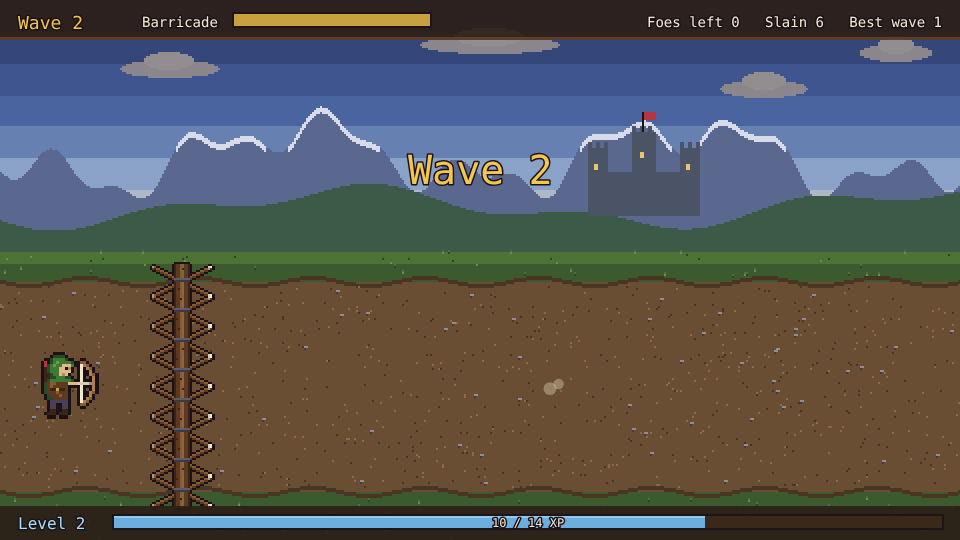
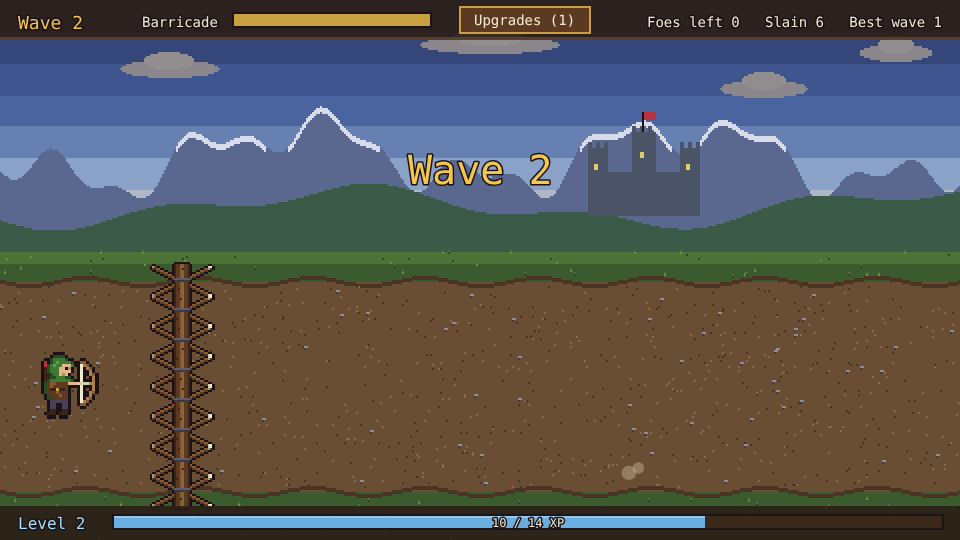
Palisade: an "Upgrades" button lists the upgrades taken so far (#76)
A button in the top bar shows how many upgrades the hero has and opens a panel listing each one with its icon, rank and what a rank does. The battle, and any level-up countdown, waits while the panel is open. The button also works during a level-up, so the hero's upgrades can be checked before choosing.

Requested by Chriszly

Created with Claude Opus 5.5 (low)

Changed region(s): [[0.4688, 0.0, 0.625, 0.0889], [0.625, 0.8593, 0.6875, 0.8889], [0.5625, 0.6815, 0.5938, 0.7407]]

diff --git a/games/palisade/src/ui/UpgradeList.ts b/games/palisade/src/ui/UpgradeList.ts
@@ -1,0 +1,100 @@
+import Phaser from 'phaser';
+import { iconTexture } from '../art/icons';
+import { FONT, UI_DEPTH, UPGRADE_LIST, VIEW } from '../scenes/layout';
+import { UPGRADE_IDS, UPGRADES, type UpgradeId } from '../game/upgrades';
+import { makeButton } from './Button';
+
+/**
+ * The upgrades the hero has taken: a small "Upgrades" button in the top bar opens a panel with each
+ * one's icon, name, rank and what a rank does. The battle (and any auto-pick countdown) waits while
+ * it is open.
+ */
+export class UpgradeList {
+  /** Whether the panel is up; the scene holds the battle still while it is. */
+  open = false;
+  private button: Phaser.GameObjects.Container;
+  private buttonText: Phaser.GameObjects.Text;
+  private buttonBg: Phaser.GameObjects.Rectangle;
+  private root: Phaser.GameObjects.Container;
+  private rows: Phaser.GameObjects.Container;
+  private shown = '';
+
+  constructor(private scene: Phaser.Scene) {
+    const { x, y, w, h } = UPGRADE_LIST.button;
+    this.buttonBg = scene.add.rectangle(0, 0, w, h, 0x5c3a21).setStrokeStyle(2, 0xc9a040);
+    this.buttonText = scene.add.text(0, 0, '', { fontFamily: FONT, fontSize: '14px', color: '#f3e9d2' }).setOrigin(0.5);
+    this.buttonBg
+      .setInteractive({ useHandCursor: true })
+      .on('pointerover', () => this.buttonBg.setFillStyle(0x8a5a32))
+      .on('pointerout', () => this.buttonBg.setFillStyle(0x5c3a21))
+      .on('pointerdown', () => this.setOpen(true));
+    // Above the level-up overlay, so the hero's upgrades can be checked while choosing the next one.
+    this.button = scene.add.container(x, y, [this.buttonBg, this.buttonText]).setDepth(UI_DEPTH + 15);
+
+    const p = UPGRADE_LIST.panel;
+    const dim = scene.add
+      .rectangle(VIEW.w / 2, VIEW.h / 2, VIEW.w, VIEW.h, 0x0e0a08, 0.7)
+      .setInteractive()
+      .on('pointerdown', () => this.setOpen(false));
+    // The panel swallows taps so only taps beside it close it.
+    const panel = scene.add.rectangle(VIEW.w / 2, VIEW.h / 2, p.w, p.h, 0x2c2018).setStrokeStyle(4, 0x8a5a32).setInteractive();
+    const top = VIEW.h / 2 - p.h / 2;
+    const title = scene.add
+      .text(VIEW.w / 2, top + 30, 'Upgrades taken', { fontFamily: FONT, fontSize: '24px', color: '#f3c64e', stroke: '#1a1216', strokeThickness: 4 })
+      .setOrigin(0.5);
+    const note = scene.add
+      .text(VIEW.w / 2, top + 56, 'The battle waits while this is open', { fontFamily: FONT, fontSize: '12px', color: '#c9b48f' })
+      .setOrigin(0.5);
+    this.rows = scene.add.container(0, 0);
+    const close = makeButton(scene, VIEW.w / 2, VIEW.h / 2 + p.h / 2 - 32, 'Back', () => this.setOpen(false));
+    this.root = scene.add.container(0, 0, [dim, panel, title, note, this.rows, close]).setDepth(UI_DEPTH + 30).setVisible(false);
+  }
+
+  /** Updates the button's count, hides it for `hidden`, and rebuilds the panel when the ranks change. */
+  show(ranks: Partial<Record<UpgradeId, number>>, hidden: boolean) {
+    const taken = UPGRADE_IDS.filter((id) => (ranks[id] ?? 0) > 0);
+    this.buttonText.setText(`Upgrades (${taken.length})`);
+    this.button.setVisible(!hidden);
+    if (hidden) this.setOpen(false);
+    const key = taken.map((id) => `${id}:${ranks[id]}`).join();
+    if (key === this.shown) return;
+    this.shown = key;
+    this.rows.removeAll(true);
+    if (taken.length === 0) {
+      this.rows.add(
+        this.scene.add
+          .text(VIEW.w / 2, VIEW.h / 2, 'No upgrades yet.\nEach level-up offers three to choose from.', {
+            fontFamily: FONT,
+            fontSize: '16px',
+            color: '#f1e3c6',
+            align: 'center',
+          })
+          .setOrigin(0.5),
+      );
+      return;
+    }
+    const { cols, colW, rowH, top } = UPGRADE_LIST;
+    const left = VIEW.w / 2 - (cols * colW) / 2;
+    taken.forEach((id, i) => {
+      const u = UPGRADES[id];
+      const x = left + (i % cols) * colW;
+      const y = top + Math.floor(i / cols) * rowH;
+      const rank = ranks[id] ?? 0;
+      this.rows.add([
+        this.scene.add.image(x + 16, y + 18, iconTexture(u.icon)).setScale(0.6),
+        this.scene.add.text(x + 40, y, u.name, { fontFamily: FONT, fontSize: '15px', color: '#f3c64e' }),
+        this.scene.add.text(x + colW - 14, y + 1, `${rank}/${u.maxRank}`, {
+          fontFamily: FONT,
+          fontSize: '13px',
+          color: rank === u.maxRank ? '#8cc35a' : '#c9b48f',
+        }).setOrigin(1, 0),
+        this.scene.add.text(x + 40, y + 19, u.text, { fontFamily: FONT, fontSize: '11px', color: '#f1e3c6', wordWrap: { width: colW - 54 } }),
+      ]);
+    });
+  }
+
+  private setOpen(open: boolean) {
+    this.open = open;
+    this.root.setVisible(open);
+  }
+}

diff --git a/games/palisade/src/scenes/GameScene.ts b/games/palisade/src/scenes/GameScene.ts
@@ -10,6 +10,7 @@ import type { UpgradeId } from '../game/upgrades';
 import { isBossWave } from '../game/waves';
 import { makeButton } from '../ui/Button';
 import { LevelUp } from '../ui/LevelUp';
+import { UpgradeList } from '../ui/UpgradeList';
 import { BOSS_BAR, FONT, HERO_FEET, HUD_HEIGHT, UI_DEPTH, VIEW, BARRICADE, XP_BAR } from './layout';
 
 /** Longest simulated step, so a backgrounded tab doesn't jump the battle forward. */
@@ -31,6 +32,8 @@ export class GameScene extends Phaser.Scene {
   state!: GameState;
   /** The level-up cards; the playthrough test reads where they are to tap one. */
   levelUp!: LevelUp;
+  /** The upgrades taken so far, behind a button in the top bar. */
+  upgradeList!: UpgradeList;
   private foes = new Map<number, Phaser.GameObjects.Image>();
   private missiles = new Map<number, Phaser.GameObjects.Image>();
   private crits = new Map<number, Phaser.GameObjects.Text>();
@@ -71,6 +74,7 @@ export class GameScene extends Phaser.Scene {
     this.createHud();
     this.createGameOver();
     this.levelUp = new LevelUp(this, (id) => this.pick(id));
+    this.upgradeList = new UpgradeList(this);
   }
 
   update(time: number) {
@@ -82,8 +86,11 @@ export class GameScene extends Phaser.Scene {
     const phase = s.phase;
     const wave = s.wave;
     const levelUps = s.levelUps;
-    tick(s, dt);
-    if (!s.choices && s.phase !== 'over') this.clock += dt;
+    // Everything, the auto-pick countdown included, waits while the list of upgrades is open.
+    if (!this.upgradeList.open) {
+      tick(s, dt);
+      if (!s.choices && s.phase !== 'over') this.clock += dt;
+    }
     if (s.phase !== phase || s.wave !== wave || s.levelUps !== levelUps) saveProgress(progressOf(s));
 
     this.drawFoes();
@@ -92,6 +99,7 @@ export class GameScene extends Phaser.Scene {
     this.drawHero();
     this.drawHud();
     this.levelUp.show(s.phase === 'over' ? null : s.choices, s.ranks, s.level - s.levelUps + 1, s.levelUps, s.pickMs);
+    this.upgradeList.show(s.ranks, s.phase === 'over');
     this.gameOver.setVisible(s.phase === 'over');
     if (s.phase === 'over') {
       this.gameOverText.setText(

diff --git a/games/palisade/src/scenes/layout.ts b/games/palisade/src/scenes/layout.ts
@@ -13,6 +13,16 @@ export const BOSS_BAR = { x: 480, y: 66, w: 420, h: 14 };
 export const CARDS = { xs: [240, 480, 720], y: 300, w: 220, h: 250 };
 /** The auto-pick countdown under the cards: its text's centre, and the width and height of its bar. */
 export const COUNTDOWN = { x: 480, y: 450, w: 160, h: 6 };
+/** The "Upgrades" button in the top bar, and the panel it opens: its size and the grid of upgrades. */
+export const UPGRADE_LIST = {
+  button: { x: 525, y: 20, w: 130, h: 26 },
+  panel: { w: 840, h: 460 },
+  cols: 3,
+  colW: 270,
+  rowH: 50,
+  /** The top of the first row. */
+  top: 120,
+};
 export const BUTTON = { w: 180, h: 40 };
 
 export const UI_DEPTH = 10_000;

diff --git a/games/palisade/AGENTS.md b/games/palisade/AGENTS.md
@@ -16,9 +16,10 @@ pauses the battle on a pick of three upgrades, taking one at random after 10 sec
 - **Progression:** level, experience, upgrade ranks, pending level-ups, best wave and run count
   carry over between runs. Every run restarts at wave 1. A boss (the troll) closes every tenth
   wave with stacked health bars.
-- **Screens:** there is one scene with the battle and HUD, plus two overlays drawn over it: the
-  level-up cards (`LevelUp`) and the game-over panel with "Fight again" and "New hero". There is
-  no title or menu screen.
+- **Screens:** there is one scene with the battle and HUD, plus three overlays drawn over it: the
+  level-up cards (`LevelUp`), the list of upgrades taken (`UpgradeList`, opened by the "Upgrades"
+  button in the top bar) and the game-over panel with "Fight again" and "New hero". There is no
+  title or menu screen.
 - **Rough edges seen in the code:**
   - `rollChoices` adds at most one `mend` filler, so with fewer than two upgrades left the level-up
     shows fewer than three cards. The README says the filler "fills the gaps".
@@ -27,7 +28,7 @@ pauses the battle on a pick of three upgrades, taking one at random after 10 sec
   - Progress is only saved when the phase or wave changes, on a level-up and on a pick (tapped or
     auto). Experience and kills gained mid-wave are lost on a reload.
   - `HERO` in `src/game/state.ts` is unused (the scene draws the hero at `HERO_FEET`).
-  - There is no sound, pause or in-game settings panel (only the hub's shared settings, see Hub
+  - There is no sound, pause button or in-game settings panel (the upgrade list pauses, though) (only the hub's shared settings, see Hub
     settings), and the hero has a single frame.
 
 ## Architecture
@@ -53,9 +54,12 @@ pauses the battle on a pick of three upgrades, taking one at random after 10 sec
 - `src/scenes/GameScene.ts`: owns the `GameState`, ticks it each frame, draws it, saves progress
   and handles restart.
 - `src/scenes/layout.ts`: screen positions (`HERO_FEET`, `BARRICADE`, `XP_BAR`, `BOSS_BAR`,
-  `CARDS`, `COUNTDOWN`, `BUTTON`), `HUD_HEIGHT`, `UI_DEPTH`, `FONT`.
+  `CARDS`, `COUNTDOWN`, `UPGRADE_LIST`, `BUTTON`), `HUD_HEIGHT`, `UI_DEPTH`, `FONT`.
 - `src/ui/LevelUp.ts`: the level-up overlay, its cards and the auto-pick countdown (seconds left
   over an emptying bar, at `COUNTDOWN`). It records each card's spot in `cards`.
+- `src/ui/UpgradeList.ts`: the "Upgrades (N)" button in the top bar and the panel it opens, a grid
+  of every upgrade with a rank (icon, name, rank of max, `text`) in `UPGRADE_IDS` order. Its
+  `open` flag tells the scene to hold everything still.
 - `src/ui/Button.ts`: `makeButton`, the wooden button used on the game-over panel.
 - `src/art/`: pixel art drawn in code. `pixelArt.ts` has `bakePixelArt`, `PixelCanvas` and the
   seeded generator `seeded`. `characters.ts` has the hero, foes (two walk frames, `foeTexture`)
@@ -84,12 +88,16 @@ pauses the battle on a pick of three upgrades, taking one at random after 10 sec
   towards their target every substep.
 - **Input:** the only input is a tap. A tap on a level-up card calls `GameScene.pick`, which calls
   `pick` in `sim.ts`. Without a tap, `tick` picks after `AUTO_PICK_MS` (10 s). "Fight again" and
-  "New hero" call `restart`. Shooting is automatic. A dimming rectangle under each overlay is
+  "New hero" call `restart`. The "Upgrades" button opens `UpgradeList`; Back or a tap beside the
+  panel closes it. While it is open `GameScene.update` skips `tick` and its `clock`, so the battle,
+  effects and the auto-pick countdown all wait. The button sits above the level-up overlay (depth
+  `UI_DEPTH + 15`) so it works while choosing, and hides after a fall. Shooting is automatic. A dimming rectangle under each overlay is
   interactive, so taps on the battle are swallowed.
 - **Rendering:** sprites are diffed by id. `foes` and `missiles` are `Map`s of images, and crit
   texts are `crits`. Each is created, updated or destroyed to match the state every frame.
   Health bars, flames, blasts, bolts and the HUD are `Graphics` that are cleared and redrawn every
-  frame. `LevelUp.show` only rebuilds its cards when the choices change.
+  frame. `LevelUp.show` only rebuilds its cards when the choices change, and `UpgradeList.show`
+  only rebuilds its rows when the ranks change.
 
 ### State model
 
@@ -162,7 +170,9 @@ Missile speeds, `LEAP_RANGE`, `BARRICADE_REPAIR` and effect durations (`EFFECT_M
   `game.scene.getScene('Game').state` (JSON-cloned) and `.levelUp.cards` (`CardSpot` id, x, y,
   w, h). It never writes to the game.
 - **Inputs:** the test only advances the clock and clicks the centre of a card, scaled from the
-  960-wide view to the canvas box.
+  960-wide view to the canvas box. It never opens the upgrade list (not part of the first
+  round's loop); `.upgradeList.open` is there to read if a test ever does. Keep the "Upgrades"
+  button clear of the cards, since it sits above the level-up overlay.
 - **What it checks:**
   - A fresh hero: level 1, no ranks, wave 1, phase `'break'`, a full barricade.
   - Wave 1 is exactly 3 goblins and 3 orcs, with an orc first.

diff --git a/games/palisade/README.md b/games/palisade/README.md
@@ -15,6 +15,7 @@ the experience bar, and every level-up pauses the battle on three upgrades to pi
 | Control | Action |
 | --- | --- |
 | Tap or click a card | Take that upgrade when a level-up comes up (after 10 seconds one is taken at random) |
+| Upgrades (in the top bar) | List the upgrades taken so far, with their ranks; the battle waits until Back |
 | Fight again / New hero | After a fall: start again from wave 1 keeping the hero, or with a new one |
 
 1. **Waves**: each wave brings more foes than the last, with more health. A short break with the
@@ -67,6 +68,12 @@ picked. Once fewer than three upgrades are left, "Mend the Barricade" fills the 
 
 ![Fire arrows, a fireball and burning foes](docs/screenshots/upgrades.png)
 
+The "Upgrades" button in the top bar shows how many upgrades the hero has and opens a list of
+them, each with its rank and what a rank does. It works during a level-up too, to check what the
+hero has before choosing.
+
+![The list of upgrades taken](docs/screenshots/upgrade-list.png)
+
 ![After a fall](docs/screenshots/game-over.png)
 
 The difficulty, set on the hub page's Settings, changes one thing: foes have 25% less health on Easy and 30% more on Hard.
@@ -102,7 +109,7 @@ All paths are inside `games/palisade/`.
   rules, `layout.ts` says where things are drawn.
 - `src/art/`: all the pixel art, drawn in code and baked into textures at startup: the ranger and
   the foes, the battlefield, the barricade (which breaks up in stages), missiles and upgrade icons.
-- `src/ui/`: the level-up cards and buttons.
+- `src/ui/`: the level-up cards, the list of upgrades taken and buttons.
 
 Adding an upgrade is an entry in `src/game/upgrades.ts` and its effect in `stats` in
 `src/game/state.ts` (and, for a new kind of missile, `shoot` in `src/game/sim.ts`).
